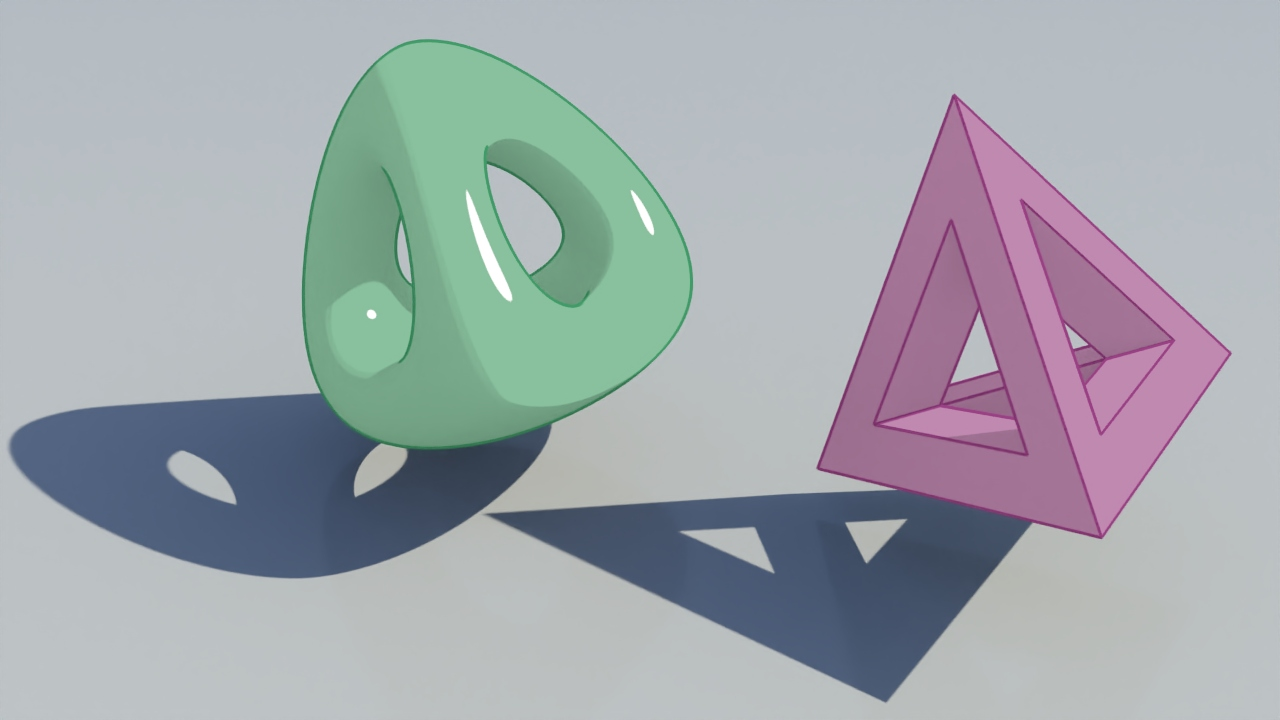
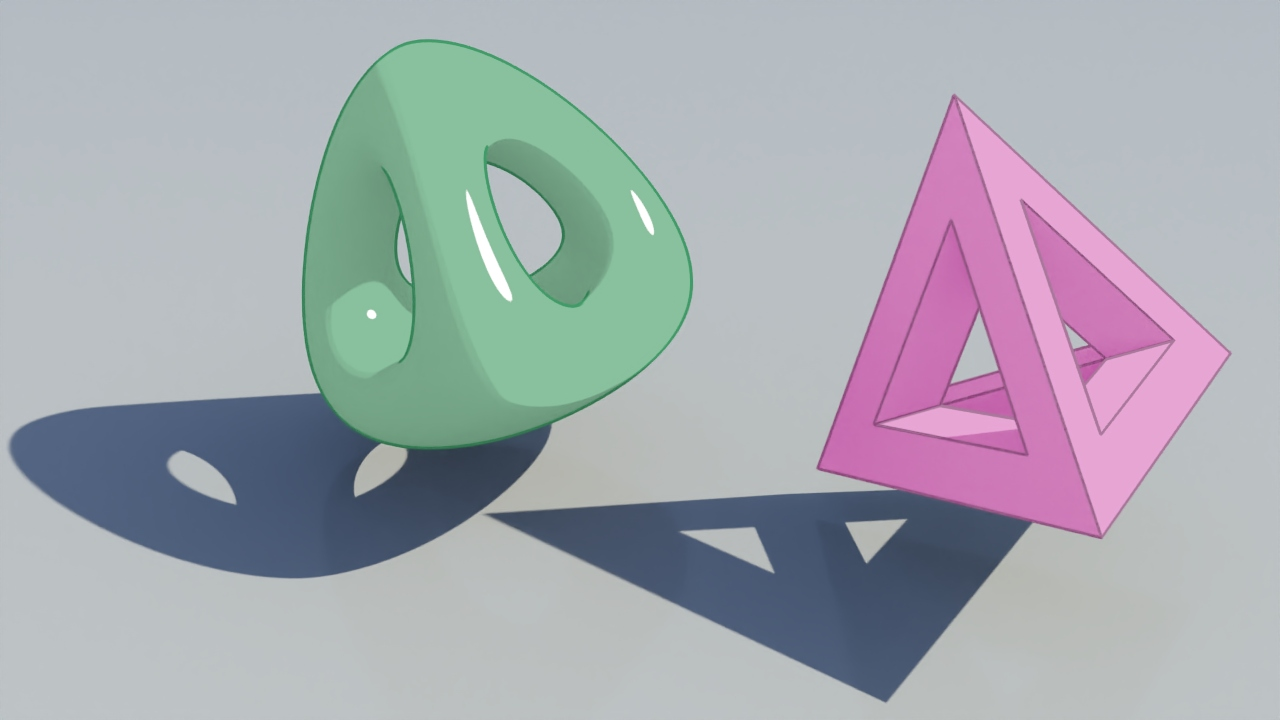
toon: improved example

Changed region(s): [[0.625, 0.1222, 0.9688, 0.7639]]

diff --git a/explore/by-feature/toon-outlines/py/toon_outlines.py b/explore/by-feature/toon-outlines/py/toon_outlines.py
@@ -68,11 +68,28 @@ def main(session):
     mat_white.set_roughness(0.1)
     mat_white.set_specular_level(1.0)
 
+    # the toon effect is the sum of two "quantized" color regions and outlines:
+    #  - color regions default: `lit_color` (66% gray), `dark_color` (33% gray)
+    #  - outline color default: `outline_color` (50% gray)
+    #  - outline colors are by default tinted by the region's colors, but NOT by
+    #    the region's tint (this allows any color possibility):
+    #    `set_outlines_tinting_enabled` (default: true)
+
+    # rely on default color regions, tint them with a color.
+    # specify outline color, which wil be tinted by the original color regions:
+    #  mat_toon_green.set_lit_color(wr.Color(0.66, 0.66, 0.66)) # default
+    #  mat_toon_green.set_dark_color(wr.Color(0.33, 0.33, 0.33)) # default
+    #  mat_toon_green.set_outlines_tinting_enabled(True) # default
     mat_toon_green.set_tint(wr.Color(0.377, 0.8, 0.513))
     mat_toon_green.set_outlines_color(wr.Color(0.077, 0.5, 0.213))
 
-    mat_toon_pink.set_tint(wr.Color(0.8, 0.377, 0.661))
-    mat_toon_pink.set_outlines_color(wr.Color(0.5, 0.077, 0.361))
+    # specify region's colors, don't tint them, rely on the default outline
+    # color, which will be tinted bt the region's colors:
+    #  mat_toon_pink.set_tint(wr.Color(1.0, 1.0, 1.0)) # default
+    #  mat_toon_pink.set_outlines_tinting_enabled(True) # default
+    #  mat_toon_pink.set_outlines_color(wr.Color(0.5, 0.5, 0.5)) # default
+    mat_toon_pink.set_lit_color(wr.Color(0.8, 0.377, 0.661))
+    mat_toon_pink.set_dark_color(wr.Color(0.5, 0.077, 0.361))
 
     # assign materials
     group.assign_material(mat_toon_green, '.*/tetra_l.*')
